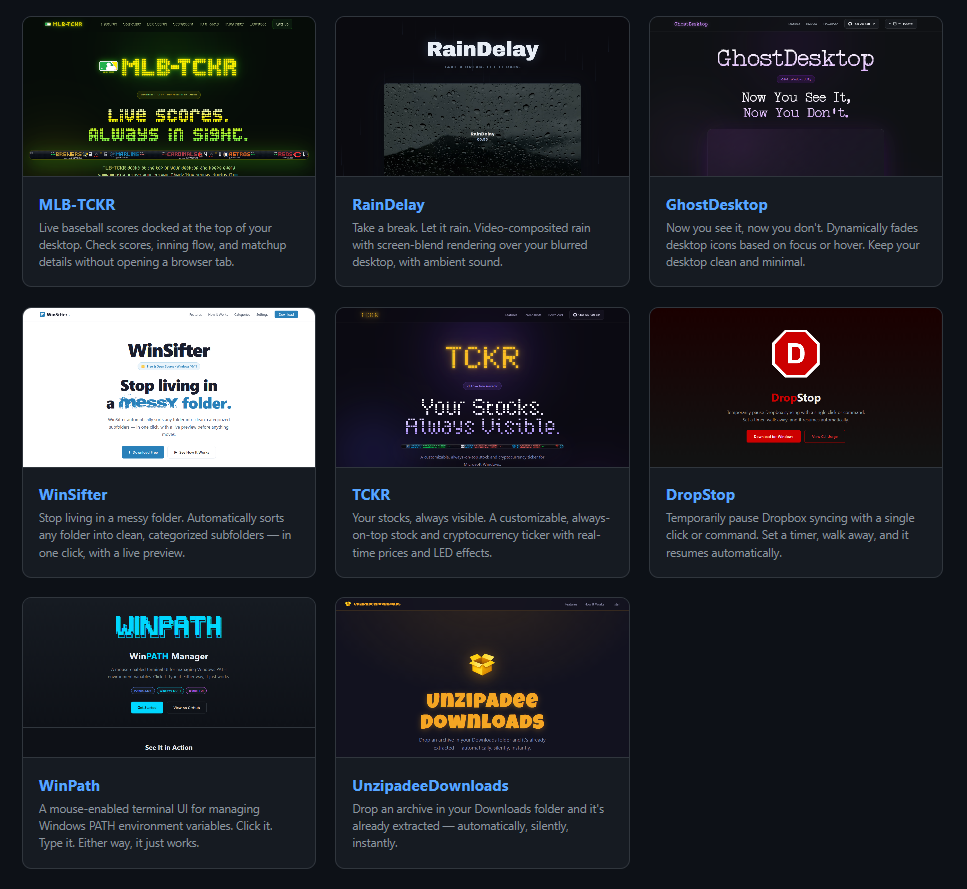
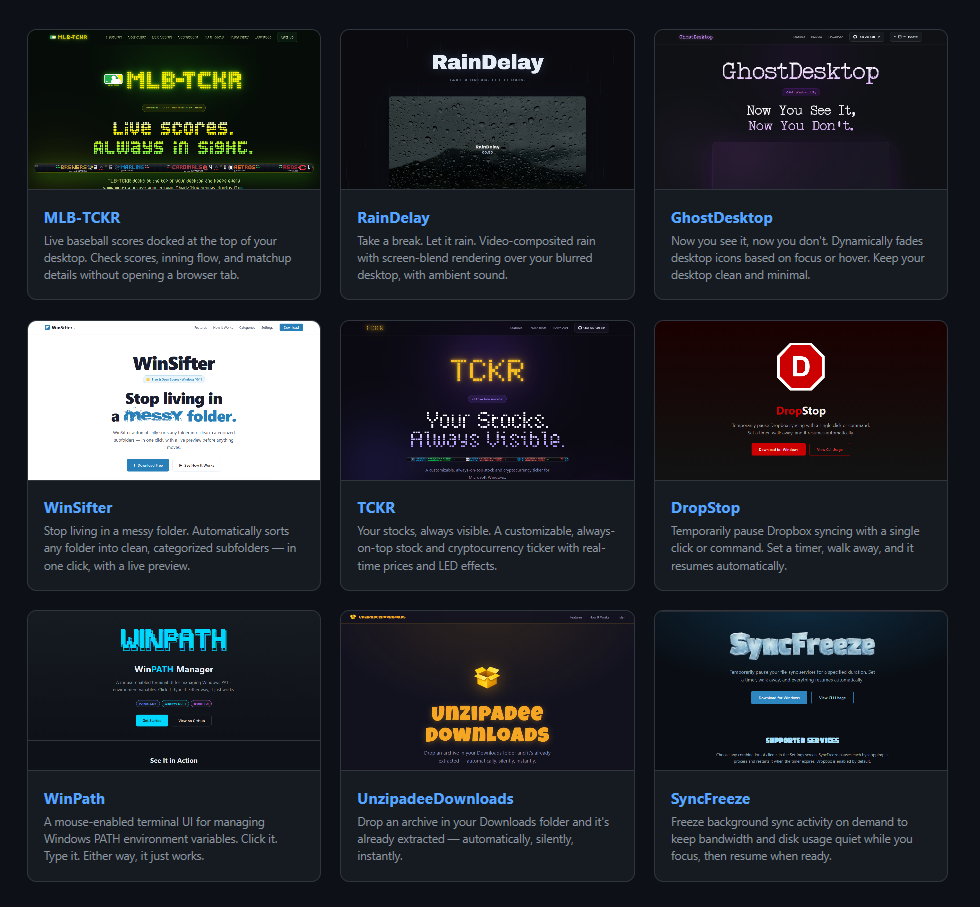
Add files via upload

diff --git a/index.html b/index.html
@@ -204,6 +204,16 @@
                 </div>
             </a>
         </div>
+
+        <div class="card">
+            <a href="https://github.com/krypdoh/syncfreeze" target="_blank">
+                <img src="9-syncfreeze.png" alt="SyncFreeze">
+                <div class="card-body">
+                    <h2>SyncFreeze</h2>
+                    <p>Freeze background sync activity on demand to keep bandwidth and disk usage quiet while you focus, then resume when ready.</p>
+                </div>
+            </a>
+        </div>
     </main>
 
     <footer>